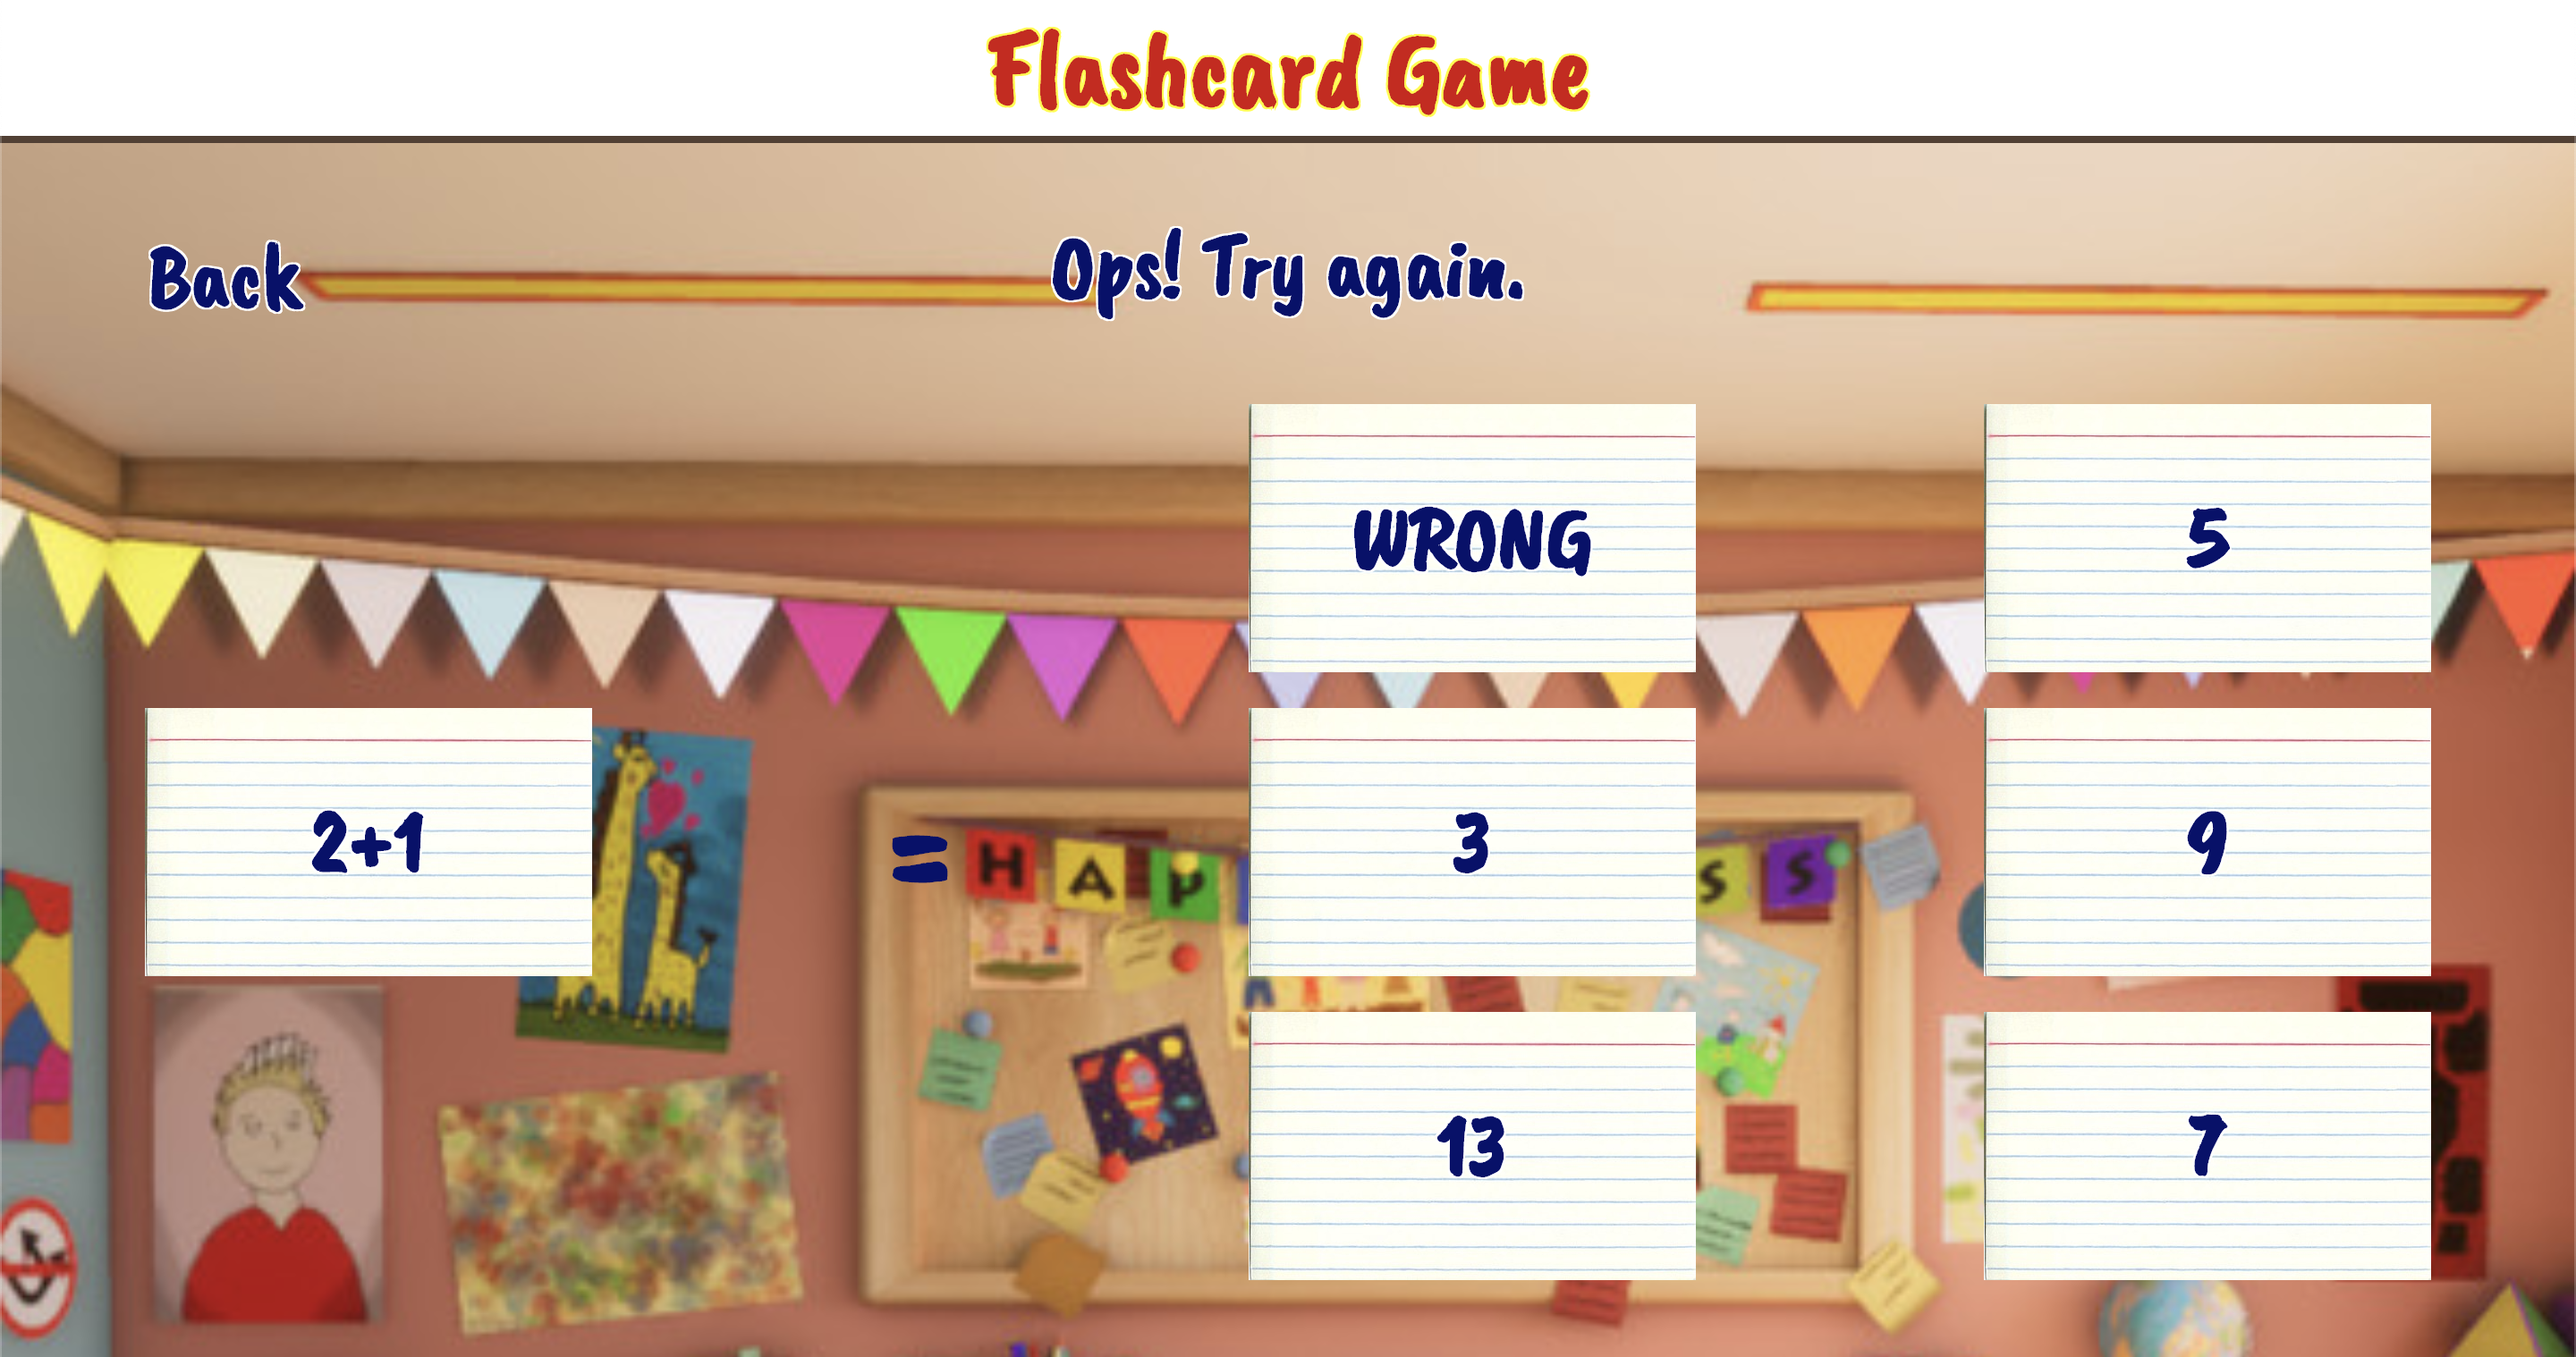
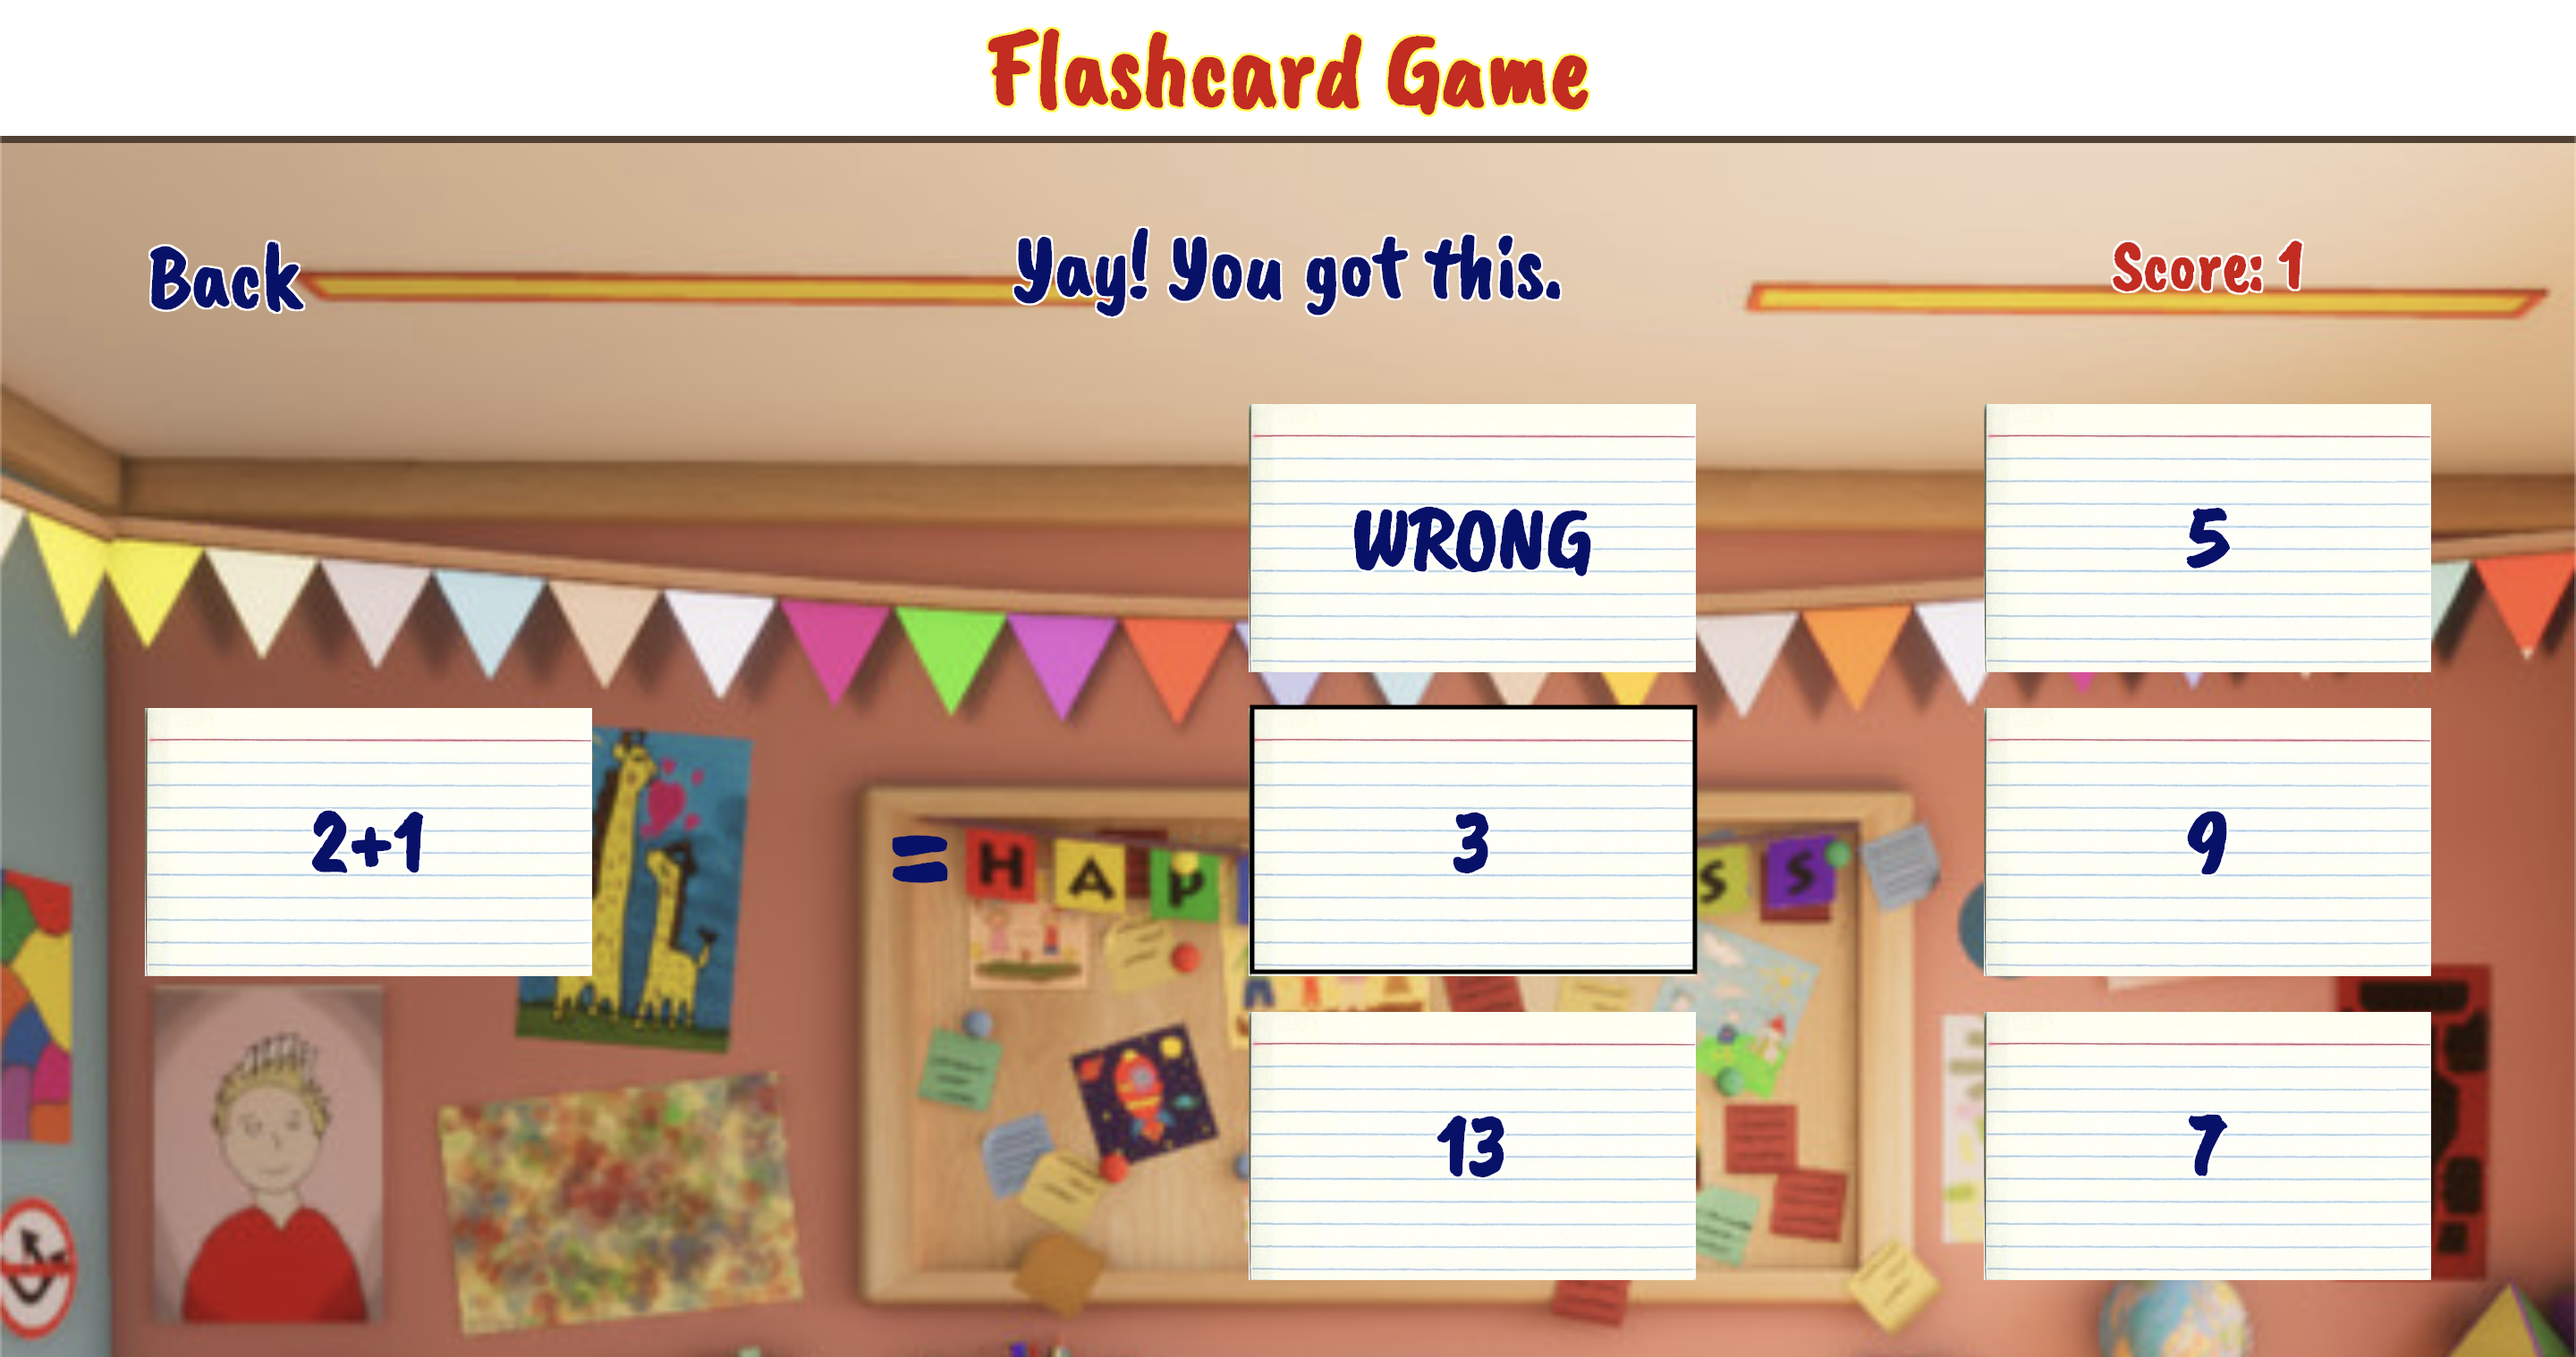
removed a wireframe

diff --git a/README.MD b/README.MD
@@ -32,13 +32,9 @@ When I was a kid, my dad found a fun way to teach me multiplication tables using
 
 ![fg2](assets/wireframes/FG2.png)
 
-- If I pick the wrong answer
+- When I pick the correct answer
 
 ![fg3](/assets/wireframes/FG3.png)
-
-- If I pick the correct answer
-
-![fg3](/assets/wireframes/FG4.png)
 
 [Let's play](https://dnocentini.github.io/flashcard-game/)
 
